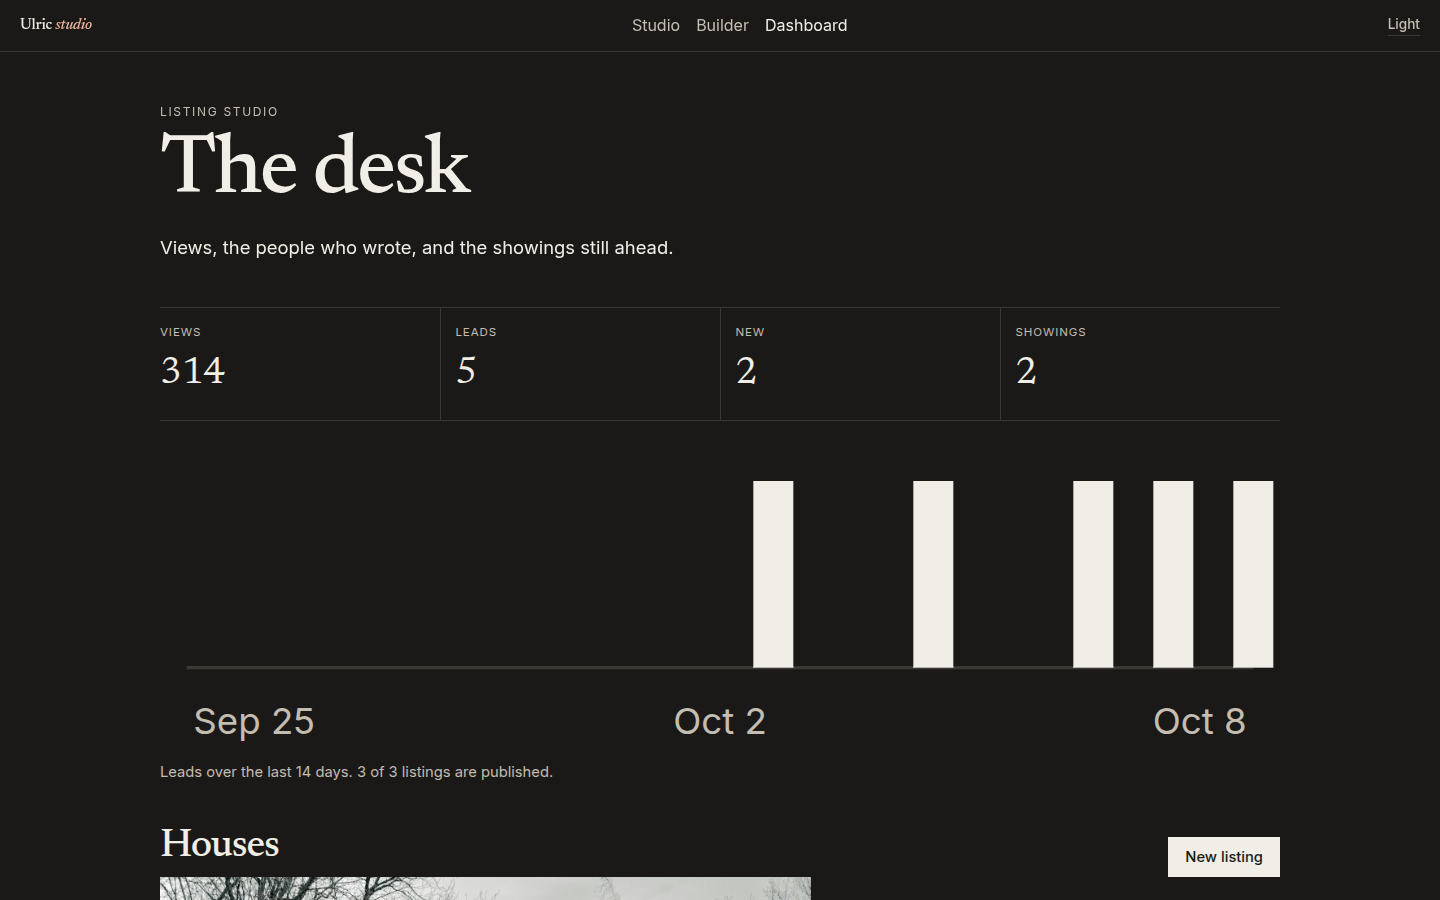
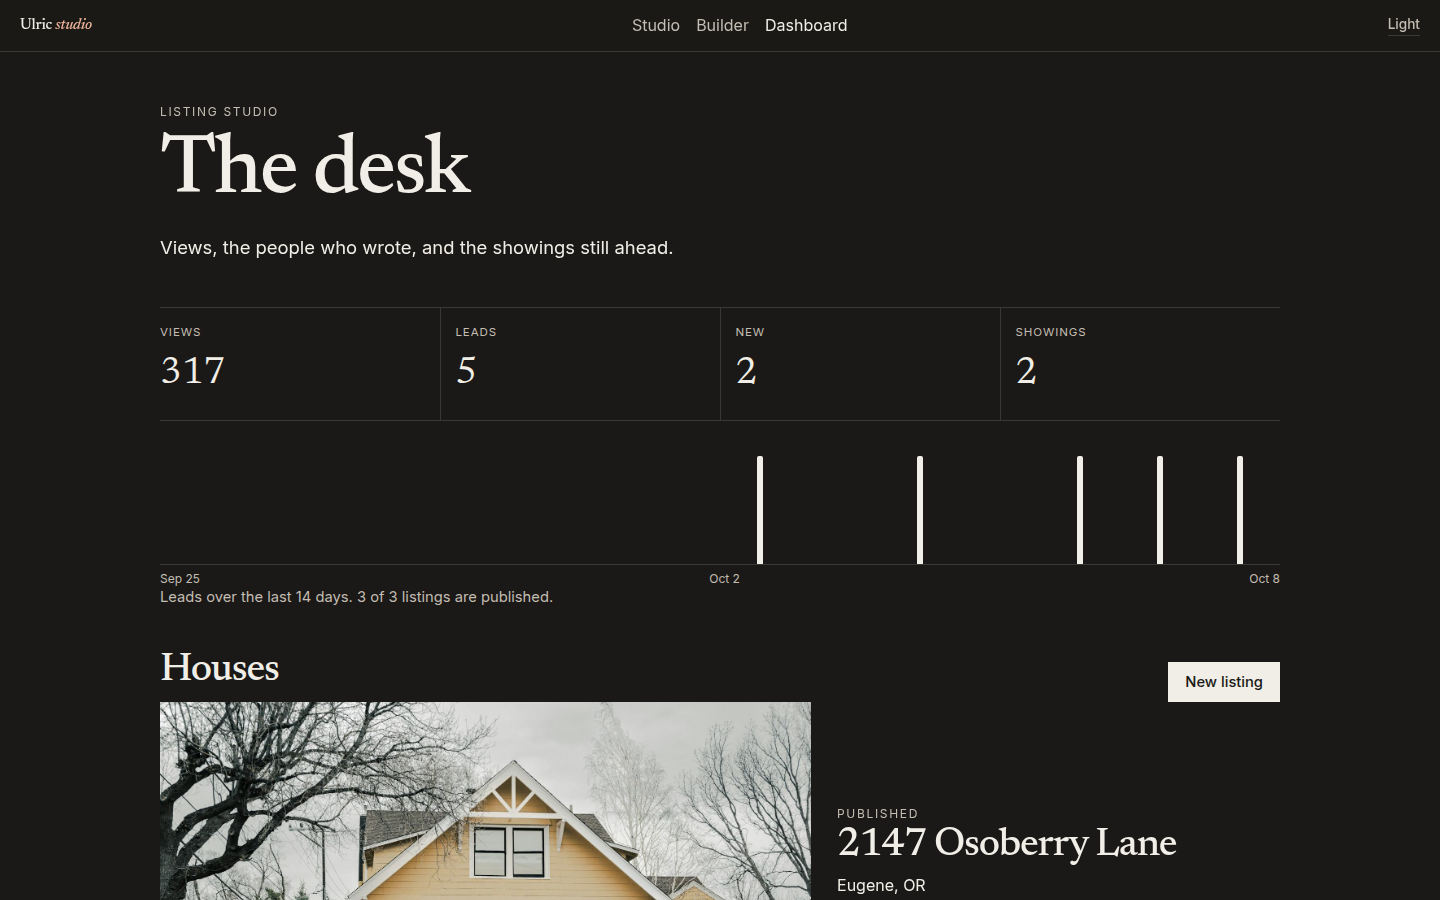
Keep the desk lead chart at a fixed small size.
Columns are 6px with a rounded top and grow from a 1px baseline. Date labels stay 12px, and a hover shows the day and count.

Changed region(s): [[0.0938, 0.5289, 0.9062, 1.0], [0.0938, 0.6222, 0.375, 0.6844], [0.125, 0.4044, 0.1562, 0.4356]]

diff --git a/src/Ulric.Web/src/app/pages/dashboard.html b/src/Ulric.Web/src/app/pages/dashboard.html
@@ -21,26 +21,36 @@
       <div><dt>Showings</dt><dd><app-count [value]="desk.upcomingShowings" /></dd></div>
     </dl>
     <figure #leadChart class="lead-chart" [class.drawn]="chartDrawn()">
-      <svg viewBox="0 0 336 96" role="img" [attr.aria-label]="leadChartLabel()">
-        <line class="axis" x1="8" y1="68" x2="328" y2="68" />
+      <div class="lead-plot" role="group" [attr.aria-label]="leadChartLabel()">
         @for (day of desk.leadsByDay; track day.date; let i = $index) {
-          <rect
-            class="lead-bar"
-            [attr.x]="10 + i * 24"
-            width="12"
-            [attr.y]="68 - leadBar(day.count)"
-            [attr.height]="leadBar(day.count)"
-            [style.transition-delay.ms]="i * 24"
+          <div
+            class="lead-slot"
+            tabindex="0"
+            role="img"
+            [attr.aria-label]="shortDay(day.date) + ', ' + day.count"
+            (mouseenter)="showTip(day, $event)"
+            (mouseleave)="hideTip()"
+            (focus)="showTip(day, $event)"
+            (blur)="hideTip()"
           >
-            <title>{{ shortDay(day.date) }}: {{ day.count }}</title>
-          </rect>
+            <span
+              class="lead-bar"
+              [style.height.px]="leadBar(day.count)"
+              [style.transition-delay.ms]="i * 24"
+            ></span>
+          </div>
         }
-        @if (desk.leadsByDay.length >= 14) {
-          <text class="tick" x="10" y="88">{{ shortDay(desk.leadsByDay[0].date) }}</text>
-          <text class="tick" x="168" y="88" text-anchor="middle">{{ shortDay(desk.leadsByDay[7].date) }}</text>
-          <text class="tick" x="326" y="88" text-anchor="end">{{ shortDay(desk.leadsByDay[13].date) }}</text>
+        @if (tip(); as day) {
+          <p class="lead-tip" [style.left.px]="tipX()" [style.top.px]="tipY()">{{ shortDay(day.date) }} · {{ day.count }}</p>
         }
-      </svg>
+      </div>
+      @if (desk.leadsByDay.length >= 14) {
+        <div class="lead-axis" aria-hidden="true">
+          <span>{{ shortDay(desk.leadsByDay[0].date) }}</span>
+          <span>{{ shortDay(desk.leadsByDay[7].date) }}</span>
+          <span>{{ shortDay(desk.leadsByDay[13].date) }}</span>
+        </div>
+      }
       <figcaption class="quiet">Leads over the last 14 days. {{ desk.publishedCount }} of {{ desk.listingCount }} listings are published.</figcaption>
     </figure>
 

diff --git a/src/Ulric.Web/src/styles.css b/src/Ulric.Web/src/styles.css
@@ -387,17 +387,57 @@ textarea { min-height: 140px; resize: vertical; }
 .stats dt { font-size: 0.72rem; letter-spacing: 0.08em; text-transform: uppercase; color: var(--muted); }
 .stats dd { margin: 0.2rem 0 0; font-family: var(--font-serif); font-size: 2.4rem; }
 .lead-chart { margin: 1.25rem 0 0; }
-.lead-chart svg { width: 100%; height: auto; display: block; }
-.lead-chart .axis { stroke: var(--line); stroke-width: 1; }
-.lead-chart .tick { fill: var(--muted); font-family: var(--font-sans); font-size: 11px; }
+.lead-plot {
+  position: relative;
+  height: 124px;
+  display: grid;
+  grid-template-columns: repeat(14, 1fr);
+  align-items: end;
+  border-bottom: 1px solid var(--line);
+}
+.lead-slot {
+  height: 100%;
+  display: flex;
+  align-items: flex-end;
+  justify-content: center;
+  min-width: 0;
+}
+.lead-slot:focus { outline: none; }
+.lead-slot:focus-visible { outline: 1px solid var(--line); outline-offset: -1px; }
 .lead-bar {
-  fill: var(--ink);
+  width: 6px;
+  background: var(--ink);
+  border-radius: 2px 2px 0 0;
   transform-box: fill-box;
   transform-origin: bottom;
   transform: scaleY(0);
   transition: transform 380ms var(--ease);
 }
 .lead-chart.drawn .lead-bar { transform: scaleY(1); }
+.lead-axis {
+  display: flex;
+  justify-content: space-between;
+  margin-top: 0.4rem;
+  color: var(--muted);
+  font-family: var(--font-sans);
+  font-size: 12px;
+  line-height: 1.2;
+}
+.lead-tip {
+  position: absolute;
+  z-index: 2;
+  margin: 0;
+  padding: 0.15rem 0.4rem;
+  transform: translate(-50%, -100%);
+  background: var(--paper);
+  color: var(--muted);
+  border: 1px solid var(--line);
+  font-family: var(--font-sans);
+  font-size: 12px;
+  line-height: 1.3;
+  white-space: nowrap;
+  pointer-events: none;
+}
 .count { display: inline-grid; font-variant-numeric: tabular-nums; }
 .count-sizer, .count-value { grid-area: 1 / 1; }
 .count-sizer { visibility: hidden; }

diff --git a/src/Ulric.Web/src/app/pages/dashboard.ts b/src/Ulric.Web/src/app/pages/dashboard.ts
@@ -4,7 +4,7 @@ import { Title } from '@angular/platform-browser';
 import { ApiService, appUrl } from '../core/api.service';
 import { fact, money, sqft, when } from '../core/format';
 import { CountUp } from '../motion/count';
-import { Dashboard, LeadStatus } from '../core/models';
+import { Dashboard, DayCount, LeadStatus } from '../core/models';
 
 interface CalendarCell {
   day: number;
@@ -70,6 +70,9 @@ export class DashboardPage implements OnInit {
   });
 
   readonly chartDrawn = signal(false);
+  readonly tip = signal<DayCount | null>(null);
+  readonly tipX = signal(0);
+  readonly tipY = signal(0);
   private readonly leadChart = viewChild<ElementRef<HTMLElement>>('leadChart');
   readonly barMax = computed(() => Math.max(1, ...(this.data()?.leadsByDay.map((day) => day.count) ?? [1])));
   readonly leadChartLabel = computed(() => {
@@ -119,7 +122,29 @@ export class DashboardPage implements OnInit {
     if (count <= 0) {
       return 0;
     }
-    return Math.max(8, Math.round((count / this.barMax()) * 56));
+    return Math.max(4, Math.round((count / this.barMax()) * 108));
+  }
+
+  showTip(day: DayCount, event: Event): void {
+    const slot = event.currentTarget as HTMLElement;
+    const plot = slot.parentElement;
+    if (!plot) {
+      return;
+    }
+    const slotBox = slot.getBoundingClientRect();
+    const plotBox = plot.getBoundingClientRect();
+    const half = 52;
+    const x = Math.min(
+      plotBox.width - half,
+      Math.max(half, slotBox.left - plotBox.left + slotBox.width / 2),
+    );
+    this.tipX.set(x);
+    this.tipY.set(plotBox.height - this.leadBar(day.count) - 8);
+    this.tip.set(day);
+  }
+
+  hideTip(): void {
+    this.tip.set(null);
   }
 
   shortDay(iso: string): string {

diff --git a/README.md b/README.md
@@ -30,7 +30,7 @@ Light desktop, then dark desktop, then the phone widths.
 
 ## Motion
 
-Pages enter with a short fade and a 12px rise, staggered when a section has several parts. Route changes crossfade. Counts on the desk and the monthly payment run up once they are on screen. The 14-day lead chart is a row of equal columns on a baseline. Days with no leads stay empty, and the columns grow up from that line. The payment section draws a small diagram of price, down payment, loan, then tax, insurance, and HOA.
+Pages enter with a short fade and a 12px rise, staggered when a section has several parts. Route changes crossfade. Counts on the desk and the monthly payment run up once they are on screen. The 14-day lead chart is about 150px tall: thin columns with a small rounded top, a faint baseline, and 12px labels. Days with no leads stay empty, the columns grow up from the baseline, and a hover shows the date and count. The payment section draws a small diagram of price, down payment, loan, then tax, insurance, and HOA.
 
 The listing page also has a daylight study: a simple house massing, not a survey of the lot. three.js loads only on that page, the pixel ratio stays at 2 or below, and the sun pauses when the study is off screen. If motion is reduced, or WebGL is unavailable, a still elevation is shown instead. The theme control fades color over about 400ms.
 
